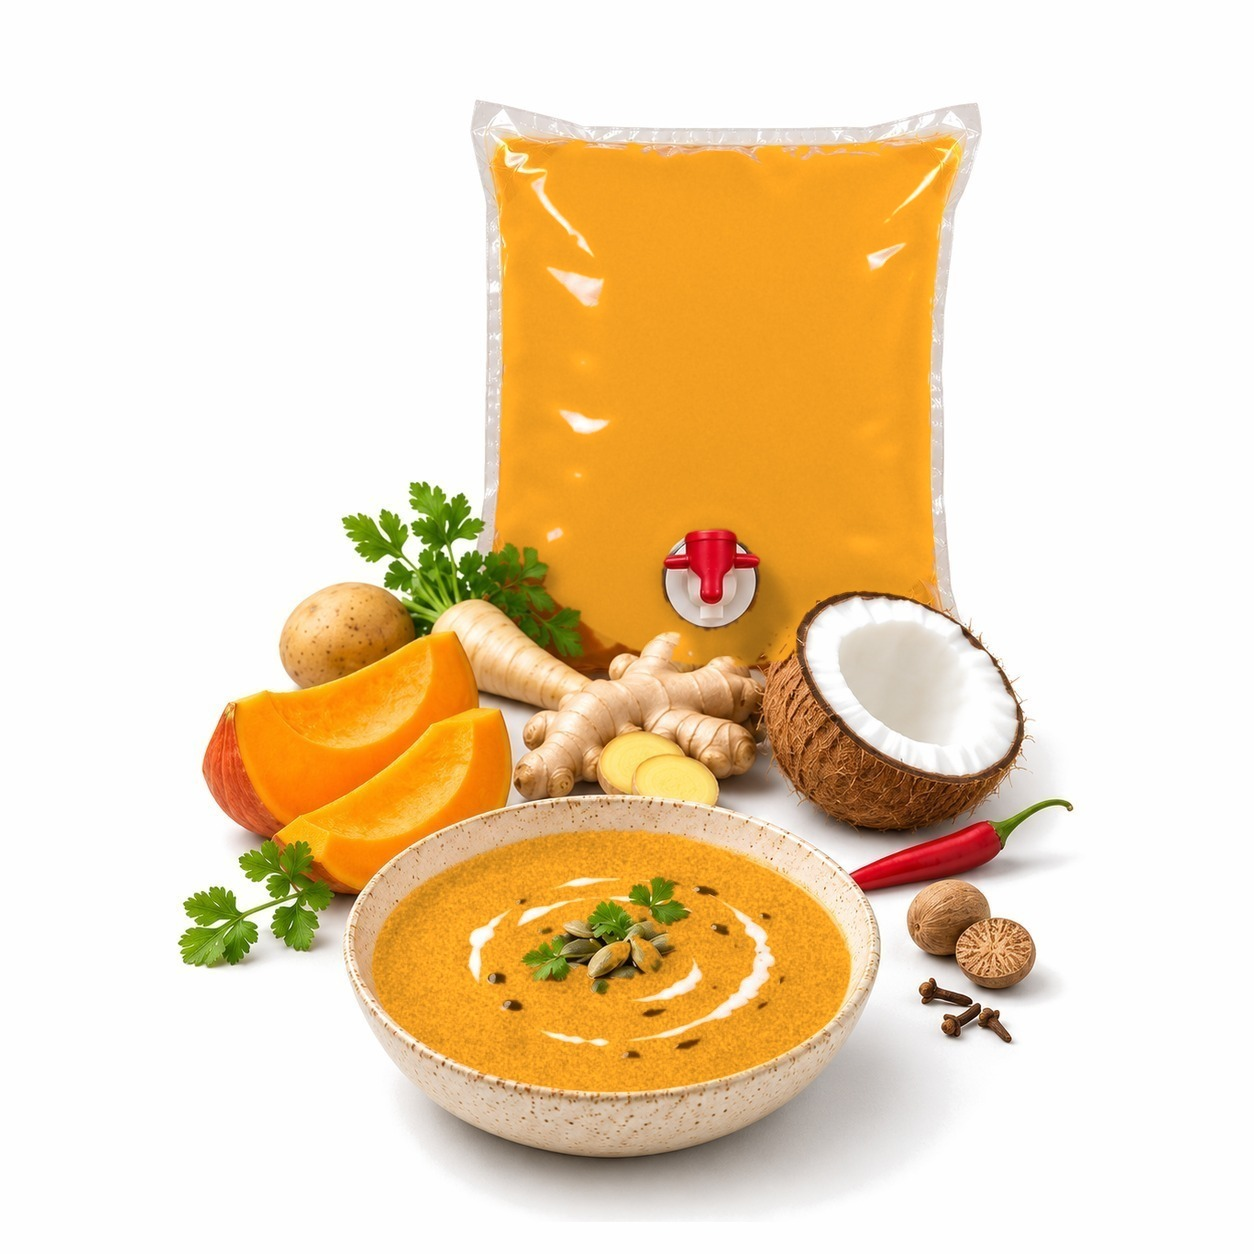
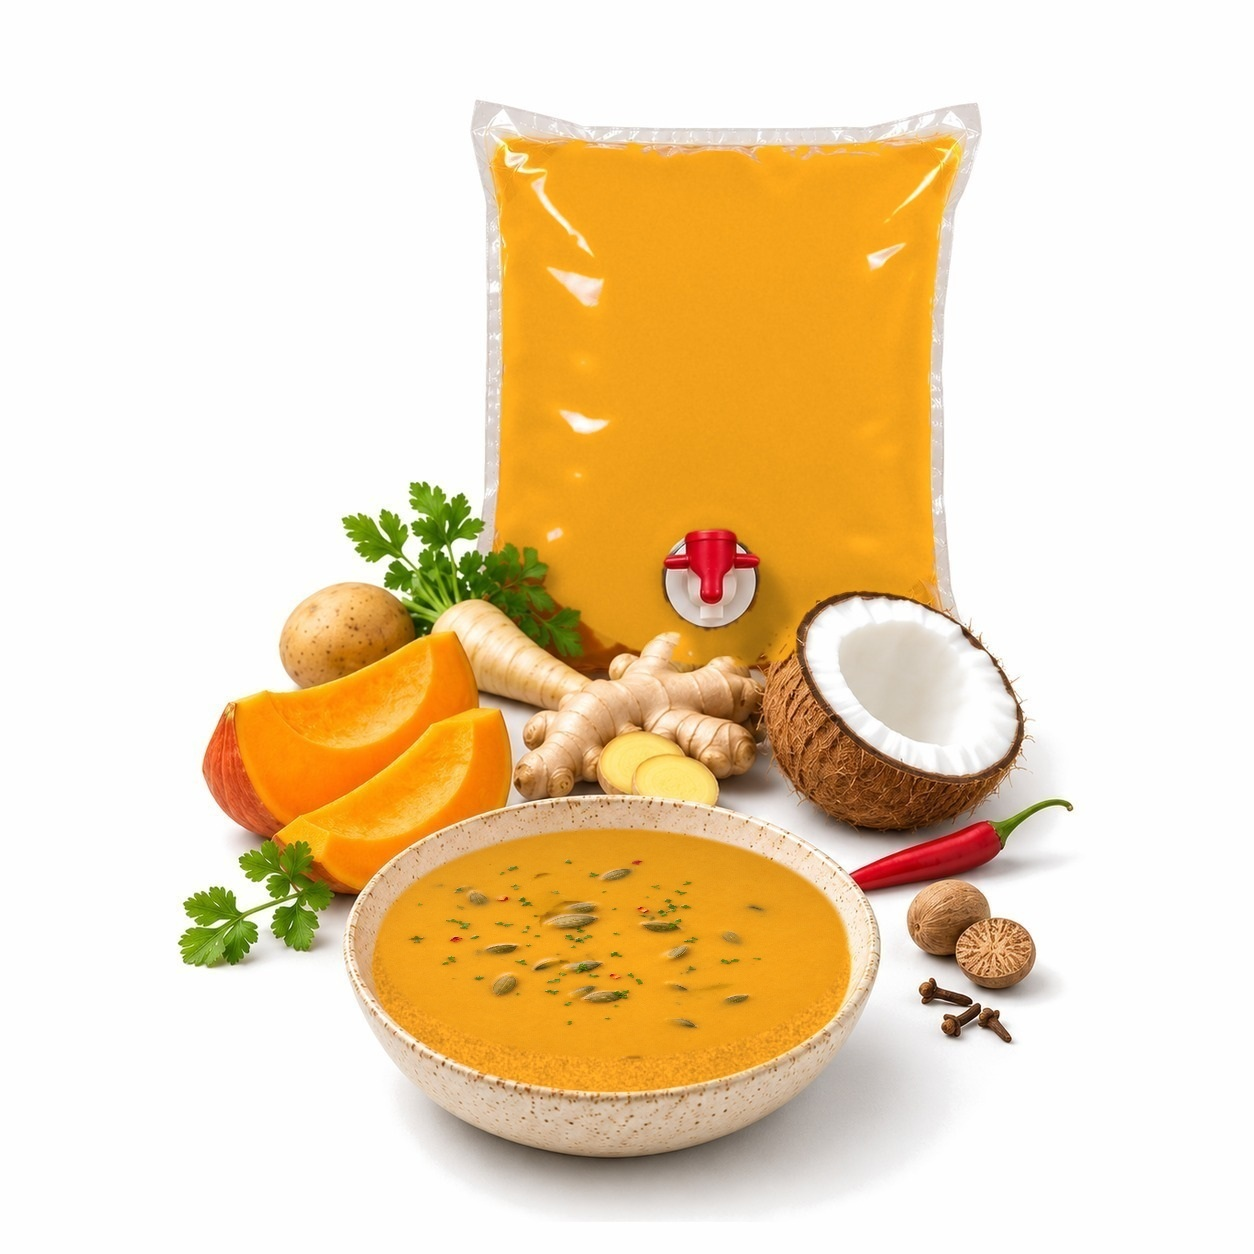
Dýňová polévka: hlavní fotka shora s posypem, fotka s beginou se stejnou hladinou
Claude-Session: https://claude.ai/code/session_016QL8fyP6fDGx2RMwKgd8AU

Changed region(s): [[0.311, 0.6531, 0.6531, 0.8397], [0.6531, 0.7153, 0.6842, 0.7464]]

diff --git a/dashboard/lib/eshop/homeContent.ts b/dashboard/lib/eshop/homeContent.ts
@@ -41,7 +41,7 @@ export const HOME_ABOUT =
 
 export const HOME_BISTRO = "Ochutnat nás můžete i v Zahradním bistru Begina ve Viticích (areál Zahradnictví Jandl).";
 
-export const HOME_STEPS_PHOTO = "/eshop/polevky/dynova-polevka-begina-v5.jpg";
+export const HOME_STEPS_PHOTO = "/eshop/polevky/dynova-polevka-begina-v6.jpg";
 
 /** Tři hlavní výhody hned pod nadpisem úvodu, viditelné bez posouvání (16. 11. 2026). */
 export const HOME_HERO_POINTS = ["Po otevření vydrží polévky a čaje 14 dní, sirupy 3 měsíce", "100% rostlinné polévky a nealko nápoje", "Doručíme chlazeně po celé ČR"] as const; // dřív „Chlazeně až domů“ — úvod je pro kavárny (Lucie 22. 11. 2026)

diff --git a/dashboard/lib/eshop/productImages.ts b/dashboard/lib/eshop/productImages.ts
@@ -42,6 +42,8 @@ const BACKDROP: Record<string, string> = {
   "/eshop/polevky/dynova-polevka-miska-v3.jpg": "#fefefe",
   "/eshop/polevky/dynova-polevka-miska-v5.jpg": "#fefefe",
   "/eshop/polevky/dynova-polevka-begina-v5.jpg": "#fefefe",
+  "/eshop/polevky/dynova-polevka-miska-v6.jpg": "#fefefe",
+  "/eshop/polevky/dynova-polevka-begina-v6.jpg": "#fefefe",
   "/eshop/polevky/rajcatova-polevka-miska-v5.jpg": "#fefefe",
   "/eshop/polevky/rajcatova-polevka-begina-v5.jpg": "#fefefe",
   "/eshop/polevky/spenatova-polevka-miska-v5.jpg": "#fefefe",
